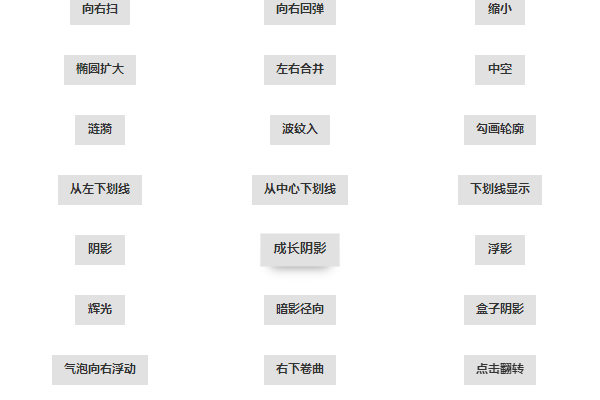
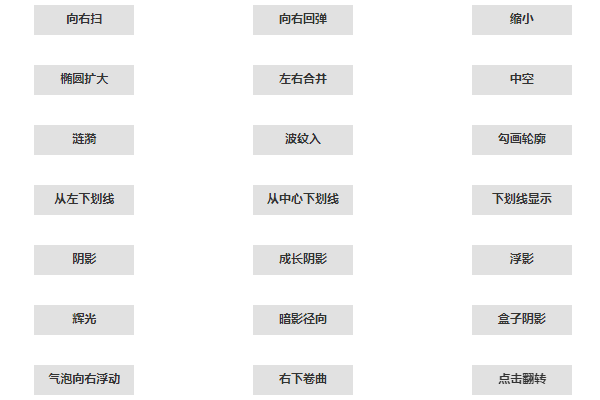
更新

diff --git a/index.html b/index.html
@@ -46,7 +46,7 @@
 
         <div class="html5">
             <div class="container">
-                <h2>html5</h2>
+                <h2>html5 & css3</h2>
                 <div class="row">
                     <div class="box col-sm-6 col-md-3">
                         <a href="./html5/player/index.html">
@@ -72,15 +72,6 @@
                         </a>
                         <p>拼图游戏</p>
                     </div>
-                </div>
-            </div>
-        </div>
-
-
-        <div class="css3">
-            <div class="container">
-                <h2>CSS3特效</h2>
-                <div class="row">
                     <div class="box col-sm-6 col-md-3">
                         <a href="./css3/Circle/index.html">
                             <img src="./img/Circle.png" alt="Circle">

diff --git a/css/style.css b/css/style.css
@@ -26,6 +26,9 @@ p {
   -webkit-box-shadow: 2px 2px 10px #888888;
      -moz-box-shadow: 2px 2px 10px #888888;
           box-shadow: 2px 2px 10px #888888;
+  -webkit-border-radius: 20px;
+     -moz-border-radius: 20px;
+          border-radius: 20px;
 }
 .content .box img:hover {
   -webkit-transform: translateY(-10px);

diff --git a/css/style.less b/css/style.less
@@ -23,6 +23,7 @@ p {
             // border: 1px solid black;
             transition: all .5s;
             box-shadow: 2px 2px 10px #888888;
+            border-radius: 20px;
             &:hover {
                 transform: translateY(-10px);
                 box-shadow: 5px 5px 10px #888888;
